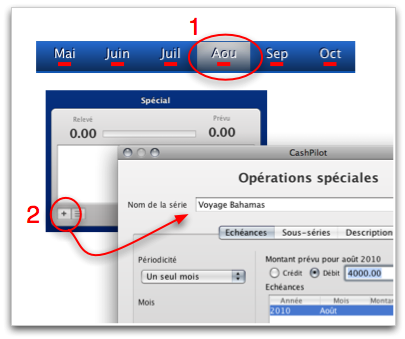
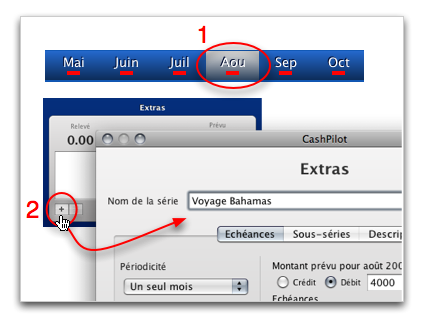
Amelioration de l'aide pour la construction du budget

diff --git a/picsou/picsou/src/main/resources/help/fr/budgetTuning.html b/picsou/picsou/src/main/resources/help/fr/budgetTuning.html
@@ -1,49 +1,61 @@
 <html>
 <body>
 
-<p>A l'issue de votre premier <a href="help:import">import</a> de vos relevés et de la première
-  <a href="help:categorization">catégorisation</a> de vos opérations, vous obtenez une définition de budget qui
-  reste somme toute assez grossière.</p>
+<p>Une fois vos opérations <a href="help:import">importées</a> et
+  <a href="help:categorization">catégorisées</a>, vous devez finaliser la construction de votre budget
+  en ajustant les chiffres et en ajoutant les séries manquantes.</p>
 
-<p>A ce stade, vous devez continuer à affiner la vision de votre budget&nbsp;:</p>
+<p>Certaines séries seront montrées en dépassement, comme ci-dessous, car CashPilot ne dispose pas encore
+  de chiffres justes pour calibrer votre budget.</p>
 
-<h2>Réglez les montants attendus pour vos enveloppes</h2>
+<div style="text-align:center">
+  <img src="help/fr/budget_depassements.png" alt="Dépassements">
+</div>
 
-<div style="text-align:center;margin:10px;">
+<p>Vous devez régler vos séries en suivant les indications suivantes&nbsp;:</p>
+
+
+<h2>Réglez les montants attendus pour vos séries</h2>
+
+<p>Cliquez sur les montants prévus pour les ajuster&nbsp;:</p>
+
+<div style="text-align:center">
   <img src="help/fr/budget_reglage_montants.png" alt="Réglage des montants">
 </div>
+
 
 <h2>Réglez les périodicités des séries</h2>
 
 <p>Certaines séries ont des periodicités différentes des périodicités mensuelles classiques - par exemple un paiement
   de factures d'électricité qui survient tous les deux mois. Là encore, vous pouvez les éditer pour choisir la
   périodicité adaptée&nbsp;:</p>
-<div style="text-align:center;margin:10px;">
-  <img src="help/fr/budget_reglage_periodicite.png" alt="Réglage des montants">
+<div style="text-align:center">
+  <img src="help/fr/budget_reglage_periodicite.png" alt="Réglage des périodicités">
 </div>
 
-<h2>Créez les séries spéciales</h2>
 
-<p>Enfin, vous devez créer des séries dans le poste budgétaire "<b>Spécial</b>" pour représenter les dépenses
+<h2>Créez les séries "extra"</h2>
+
+<p>Enfin, vous devez créer des séries dans le poste budgétaire "<b>Extra</b>" pour représenter les dépenses
   particulières qui vont marquer le budget de ce mois&nbsp;: achats importants, réparations, voyages, etc.</p>
-<p>Vous utilisez aussi les séries "Spéciales" pour anticiper vos projets dans le futur&nbsp;:</p>
-<div style="text-align:center;margin:10px;">
-  <img src="help/fr/budget_creation_projets.png" alt="Réglage des montants">
+<p>Vous utilisez aussi les séries "Extra" pour anticiper vos projets dans le futur&nbsp;:</p>
+<div style="text-align:center">
+  <img src="help/fr/budget_creation_projets.png" alt="Définition des séries extra">
 </div>
 
 
-<h2>Décaler des opérations</h2>
+<h2>Décalez des opérations</h2>
 
 <p>Il se peut que votre budget soit faussé par le fait qu'une opération importante ait été comptabilisée au mois
   précédent ou suivant celui où vous l'attendiez.</p>
 <p>Le cas typique concerne les salaires, avec par exemple le salaire du mois de mai qui arrive au 1er juin,
-  et celui du mois de juin qui arrive au 31 juin. Dans cette configuration, le budget de mai ne comporte aucun
+  et celui du mois de juin qui arrive au 31 mai. Dans cette configuration, le budget de mai ne comporte aucun
   salaire, et celui de juin en comporte deux.</p>
 <p>Pour corriger cette situation, vous devez vous rendre dans la vue
   <a href="help:card_categorization">Catégorisation</a>, retrouver l'opération en question, et la décaler au bon
   mois en cliquant sur le bouton "Décaler".</p>
 
-<h2>Préparer les mois suivants</h2>
+<h2>Préparez les mois suivants</h2>
 
 <p>Une fois vos séries correctement réglées, vous pouvez repéter l'opération pour les mois suivants de manière à vous
   constituer une vision claire des mois à venir.</p>

diff --git a/picsou/picsou/src/main/resources/help/fr/usageOverview.html b/picsou/picsou/src/main/resources/help/fr/usageOverview.html
@@ -21,7 +21,7 @@
 
 <p>Une fois ces séries convenablement configurées, CashPilot vous donne une vision générale de votre budget. A ce stade,
   cette vision est certainement grossière - il vous revient alors de l'affiner, en réglant manuellement les montants
-  des échéanciers de certaines séries et en créant des séries du type "Opérations spéciales" pour
+  des échéanciers de certaines séries et en créant des séries "Extra" pour
   les événements particuliers que vous prévoyez dans les mois à venir - projets, voyages, achats importants, etc.</p>
 
 <p>Si vous n'avez pas encore importé vos données pour la première fois, nous vous recommandons de fermer

diff --git a/picsou/picsou/src/main/resources/help/fr/budgetAreas.html b/picsou/picsou/src/main/resources/help/fr/budgetAreas.html
@@ -23,7 +23,7 @@
 <h2>L'épargne</h2>
 <p>Ce poste regroupe les différents retraits ou dépôts effectués sur vos comptes d'épargne.</p>
 
-<h2>Les opérations spéciales</h2>
+<h2>Les opérations "extra"</h2>
 <p>Ce poste regroupe les opérations exceptionnelles du mois - des achats importants, des voyages, des réparations
   exceptionnelles, etc.</p>
 <p>Vous pouvez utiliser ce poste pour prévoir vos projets à l'avance - typiquement, vous pouvez créer une série

diff --git a/picsou/picsou/src/main/resources/help/fr/categorization.html b/picsou/picsou/src/main/resources/help/fr/categorization.html
@@ -16,7 +16,7 @@
   <li>Les frais fixes</li>
   <li>Les enveloppes de frais courants</li>
   <li>L'épargne</li><
-  <li>Les opérations spéciales</li>
+  <li>Les dépenses "extra" du mois</li>
 </ul>
 
 <p>Certaines séries ont été créées par l'assistant de création de séries, lors de l'initialisation de votre compte.
